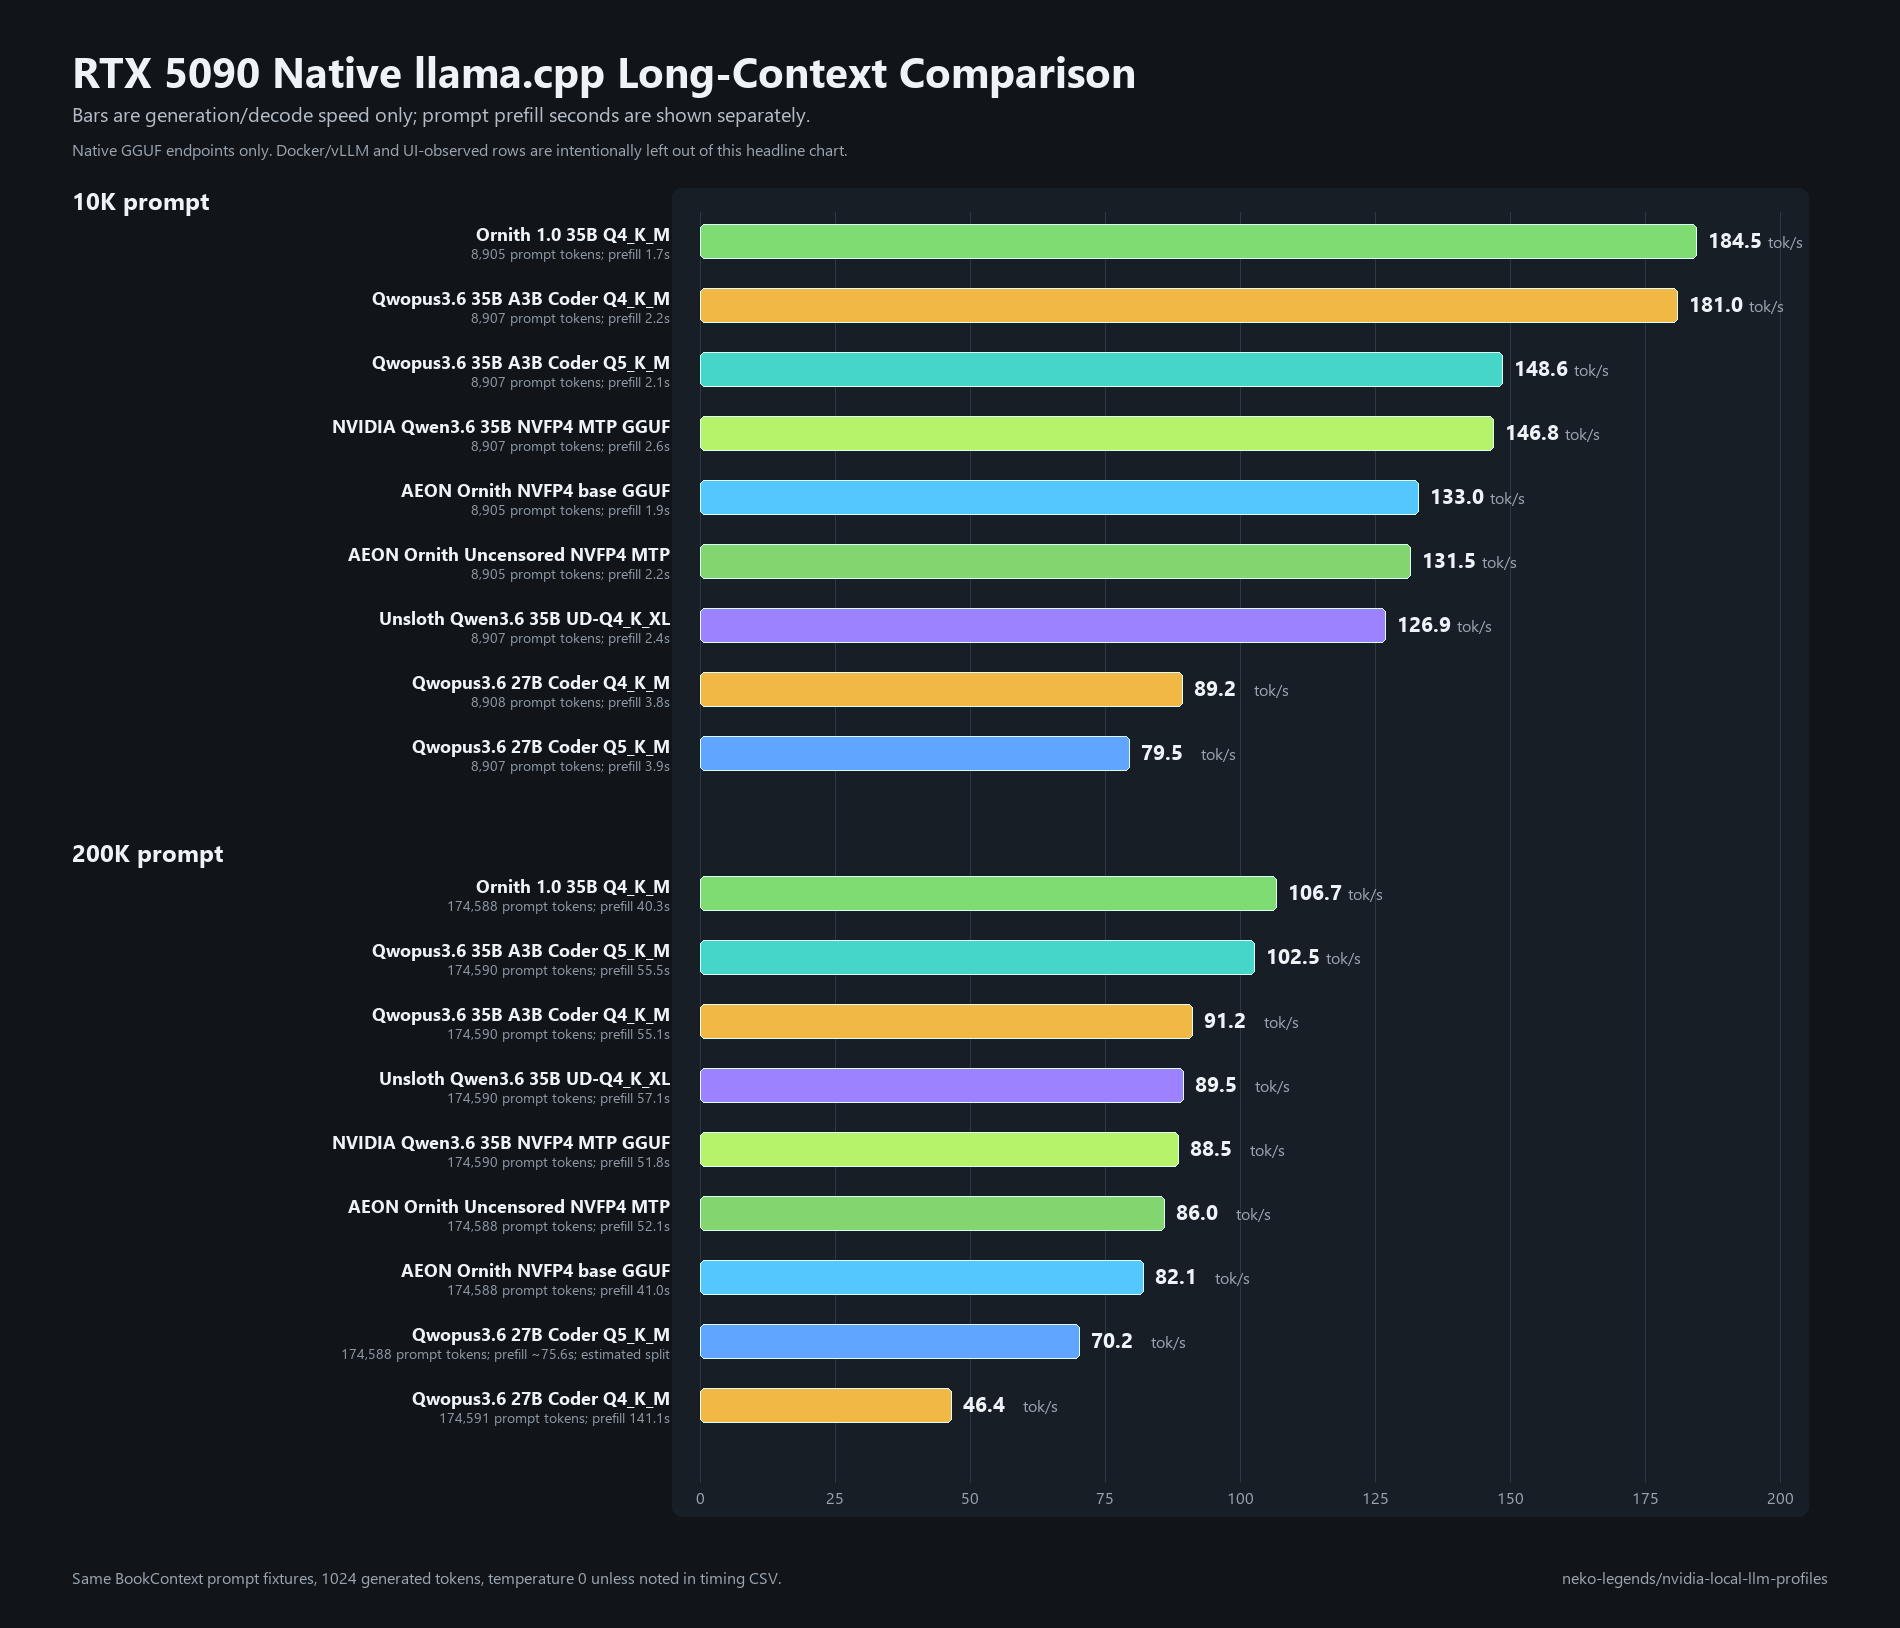
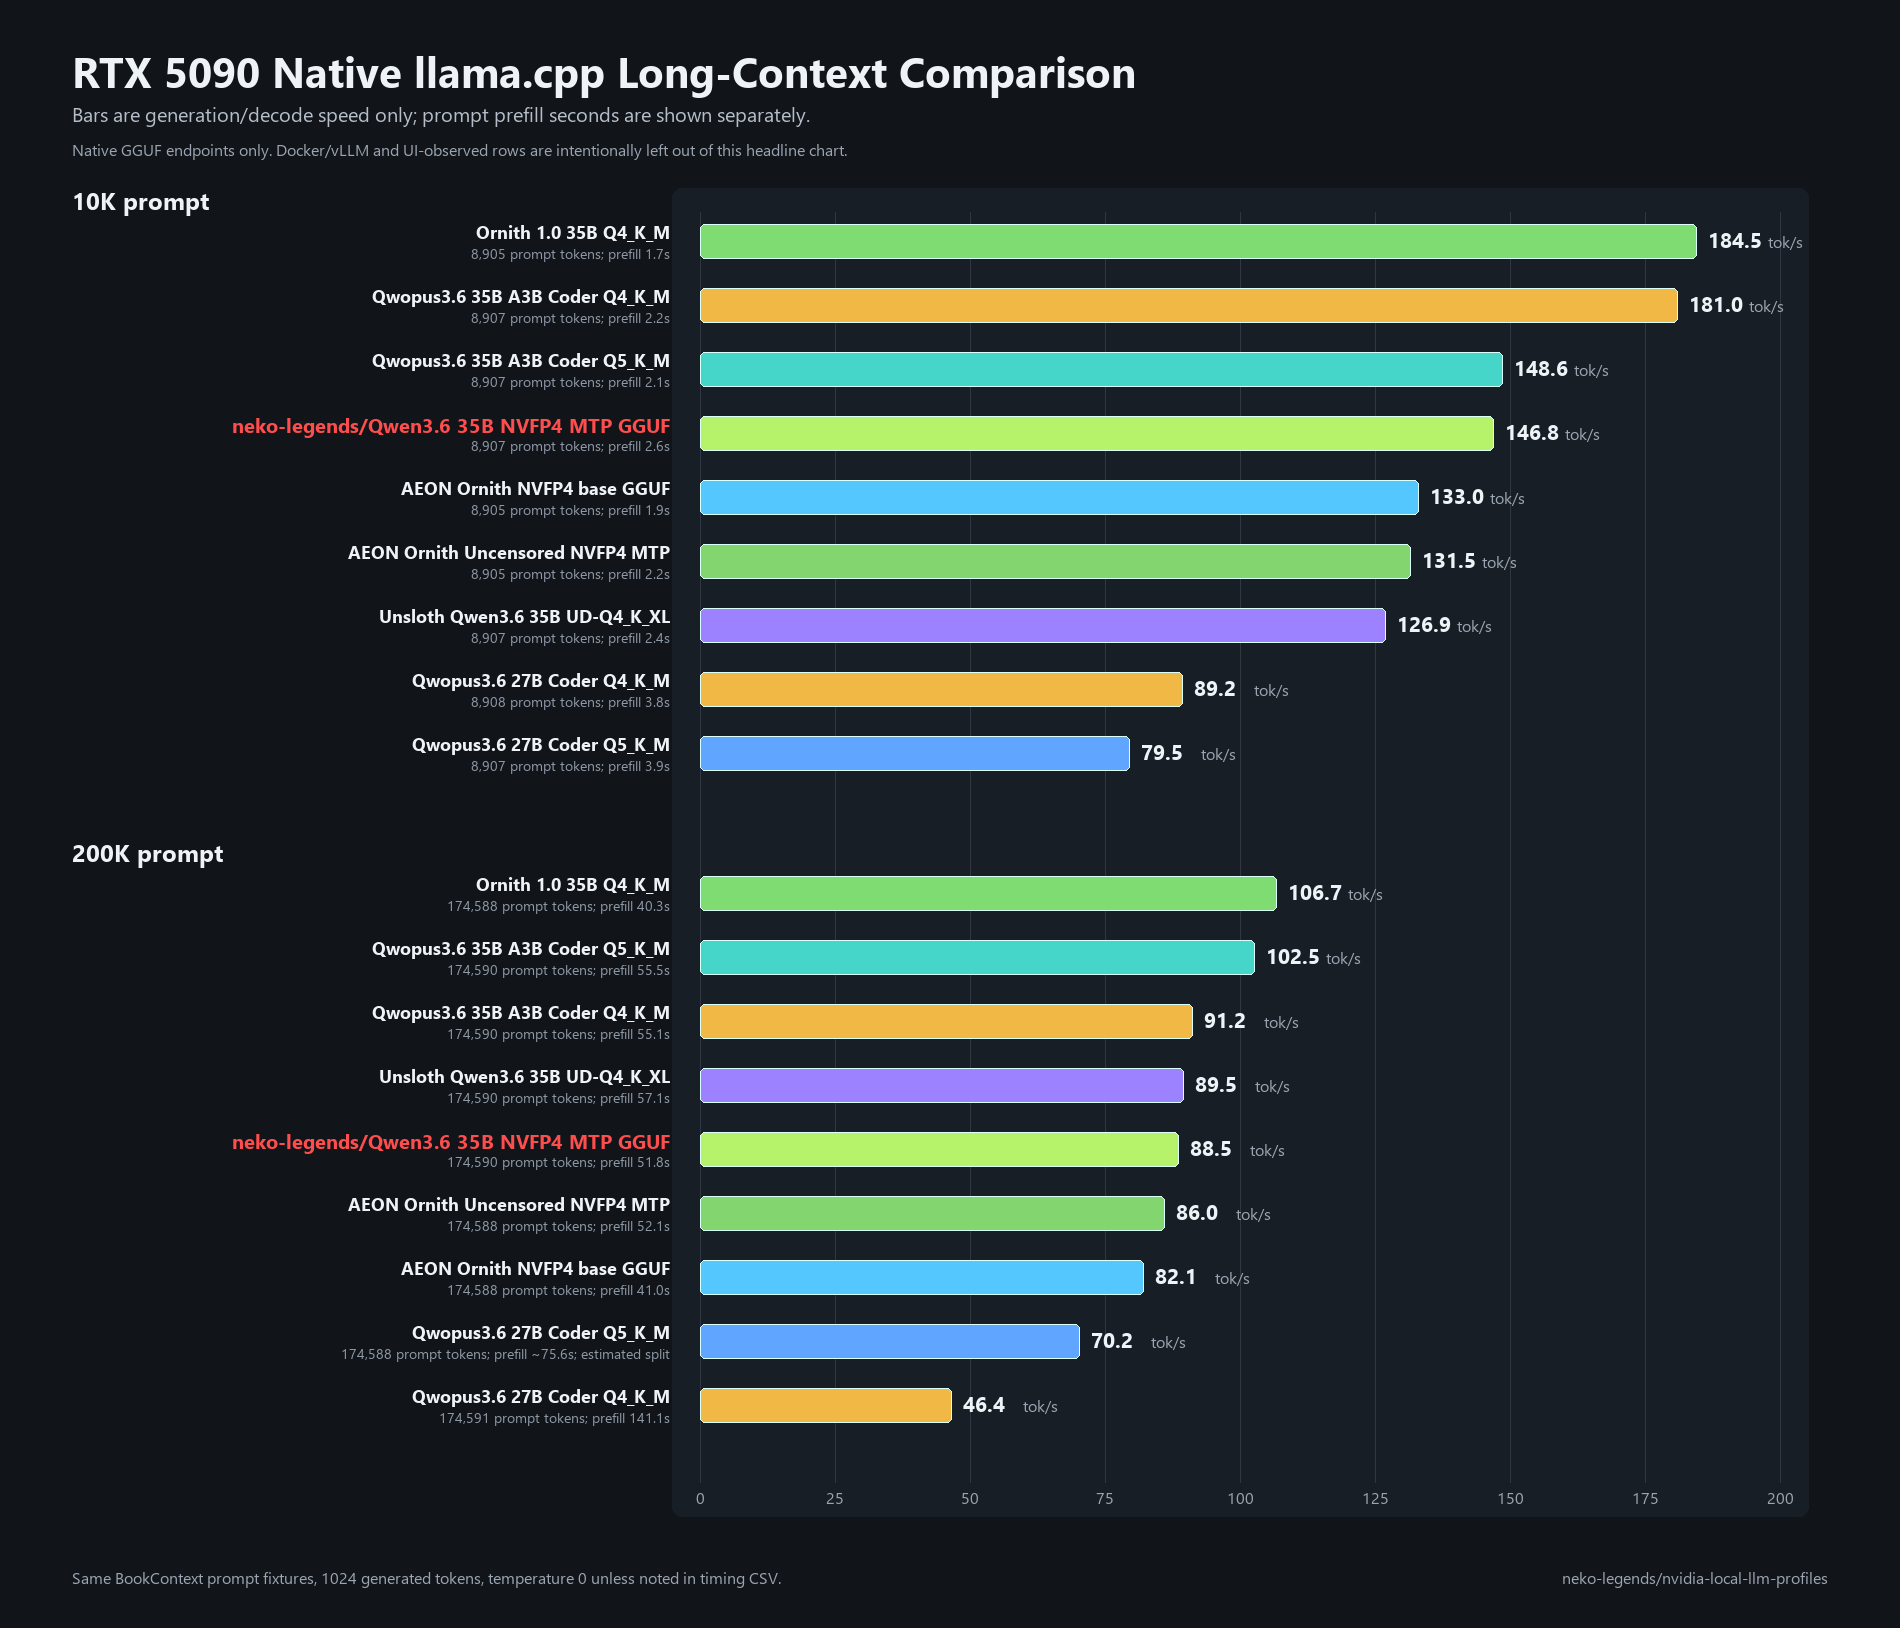
Highlight target Qwen GGUF chart rows

diff --git a/scripts/benchmarks/render-qwen35-moe-comparison-chart.py b/scripts/benchmarks/render-qwen35-moe-comparison-chart.py
@@ -23,6 +23,7 @@ class ModelSpec:
     file: str
     label: str
     color: str
+    highlight: bool = False
 
 
 MODEL_SPECS = [
@@ -65,8 +66,9 @@ MODEL_SPECS = [
     ModelSpec(
         "nvidia/Qwen3.6-35B-A3B-NVFP4",
         "qwen3.6-35b-a3b-nvfp4-mtp.gguf",
-        "NVIDIA Qwen3.6 35B NVFP4 MTP GGUF",
+        "neko-legends/Qwen3.6 35B NVFP4 MTP GGUF",
         "#b6f26a",
+        True,
     ),
     ModelSpec(
         "Jackrong/Qwopus3.6-27B-Coder-MTP-GGUF",
@@ -139,6 +141,7 @@ def latest_rows_by_spec() -> list[dict[str, object]]:
                     "tps": fnum(row["generation_tps"]),
                     "color": spec.color,
                     "file": spec.file,
+                    "highlight": spec.highlight,
                 }
             )
 
@@ -188,6 +191,7 @@ def render_svg(rows: list[dict[str, object]], scale_max: int) -> Path:
         ".subtitle{fill:#b5bec8;font-size:20px}",
         ".group{fill:#edf3f7;font-size:24px;font-weight:750}",
         ".label{fill:#edf3f7;font-size:18px;font-weight:700}",
+        ".label-highlight{fill:#ff4d4d;font-size:20px;font-weight:900}",
         ".detail{fill:#8e99a6;font-size:14px}",
         ".value{fill:#edf3f7;font-size:21px;font-weight:750}",
         ".small{fill:#9aa5b1;font-size:16px}",
@@ -215,7 +219,8 @@ def render_svg(rows: list[dict[str, object]], scale_max: int) -> Path:
 
         value = float(row["tps"])
         bar_w = (value / scale_max) * plot_w
-        parts.append(svg_text(left - 30, ypos - 5, str(row["label"]), class_="label", text_anchor="end"))
+        label_class = "label-highlight" if row.get("highlight") else "label"
+        parts.append(svg_text(left - 30, ypos - 5, str(row["label"]), class_=label_class, text_anchor="end"))
         parts.append(svg_text(left - 30, ypos + 17, str(row["detail"]), class_="detail", text_anchor="end"))
         parts.append(f'<rect x="{left}" y="{ypos - 26}" width="{bar_w:.1f}" height="{bar_h}" rx="5" fill="{row["color"]}" opacity="0.95"/>')
         parts.append(f'<rect x="{left}" y="{ypos - 26}" width="{bar_w:.1f}" height="{bar_h}" rx="5" fill="none" stroke="#d9fff8" stroke-opacity="0.50"/>')
@@ -261,6 +266,7 @@ def render_png(rows: list[dict[str, object]], scale_max: int) -> Path:
     subtitle_font = font("segoeui.ttf", 20)
     group_font = font("segoeuib.ttf", 24)
     label_font = font("segoeuib.ttf", 18)
+    label_highlight_font = font("segoeuib.ttf", 20)
     detail_font = font("segoeui.ttf", 14)
     value_font = font("segoeuib.ttf", 21)
     small_font = font("segoeui.ttf", 16)
@@ -288,8 +294,10 @@ def render_png(rows: list[dict[str, object]], scale_max: int) -> Path:
         bar_w = (value / scale_max) * plot_w
         label = str(row["label"])
         detail = str(row["detail"])
-        bbox = draw.textbbox((0, 0), label, font=label_font)
-        draw.text((left - 30 - (bbox[2] - bbox[0]), ypos - 29), label, fill="#edf3f7", font=label_font)
+        current_label_font = label_highlight_font if row.get("highlight") else label_font
+        label_fill = "#ff4d4d" if row.get("highlight") else "#edf3f7"
+        bbox = draw.textbbox((0, 0), label, font=current_label_font)
+        draw.text((left - 30 - (bbox[2] - bbox[0]), ypos - 31), label, fill=label_fill, font=current_label_font)
         bbox = draw.textbbox((0, 0), detail, font=detail_font)
         draw.text((left - 30 - (bbox[2] - bbox[0]), ypos - 7), detail, fill="#8e99a6", font=detail_font)
         draw.rounded_rectangle([left, ypos - 26, left + bar_w, ypos - 26 + bar_h], radius=5, fill=str(row["color"]), outline="#d9fff8", width=1)